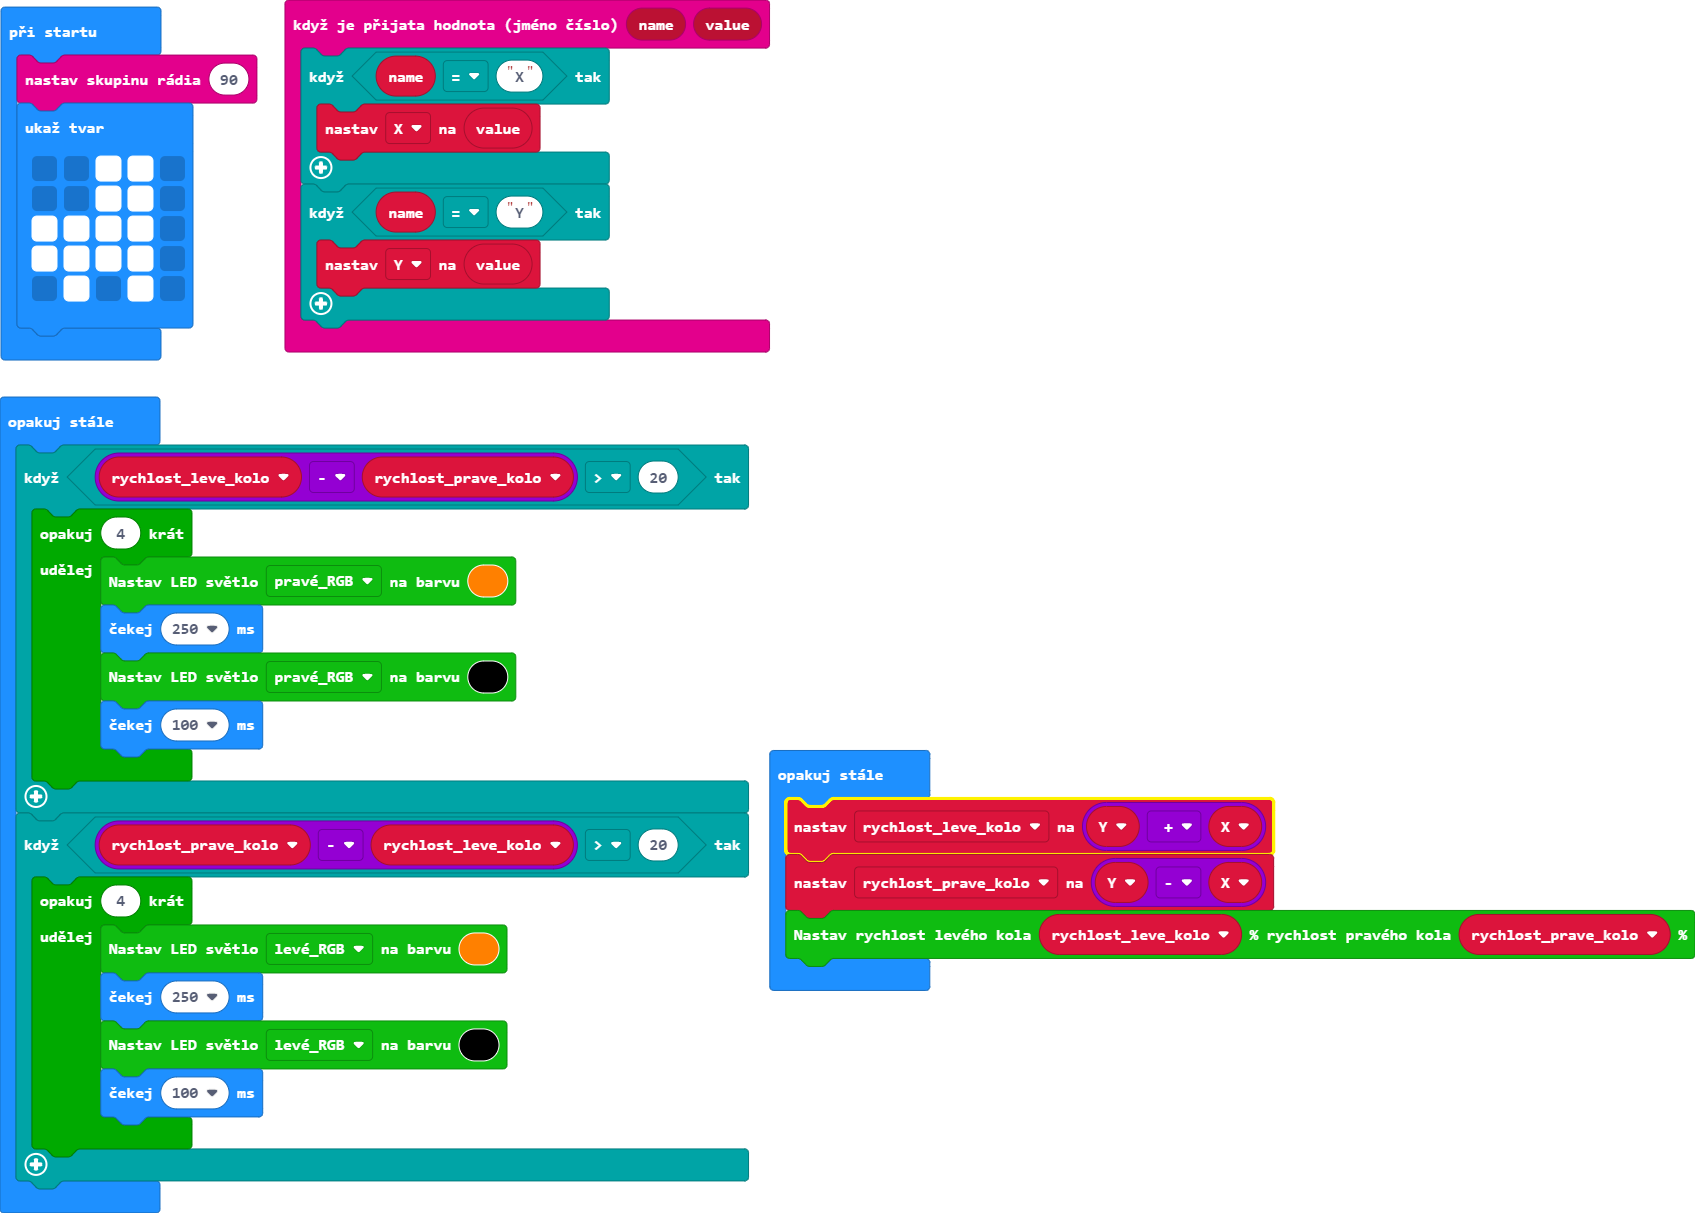
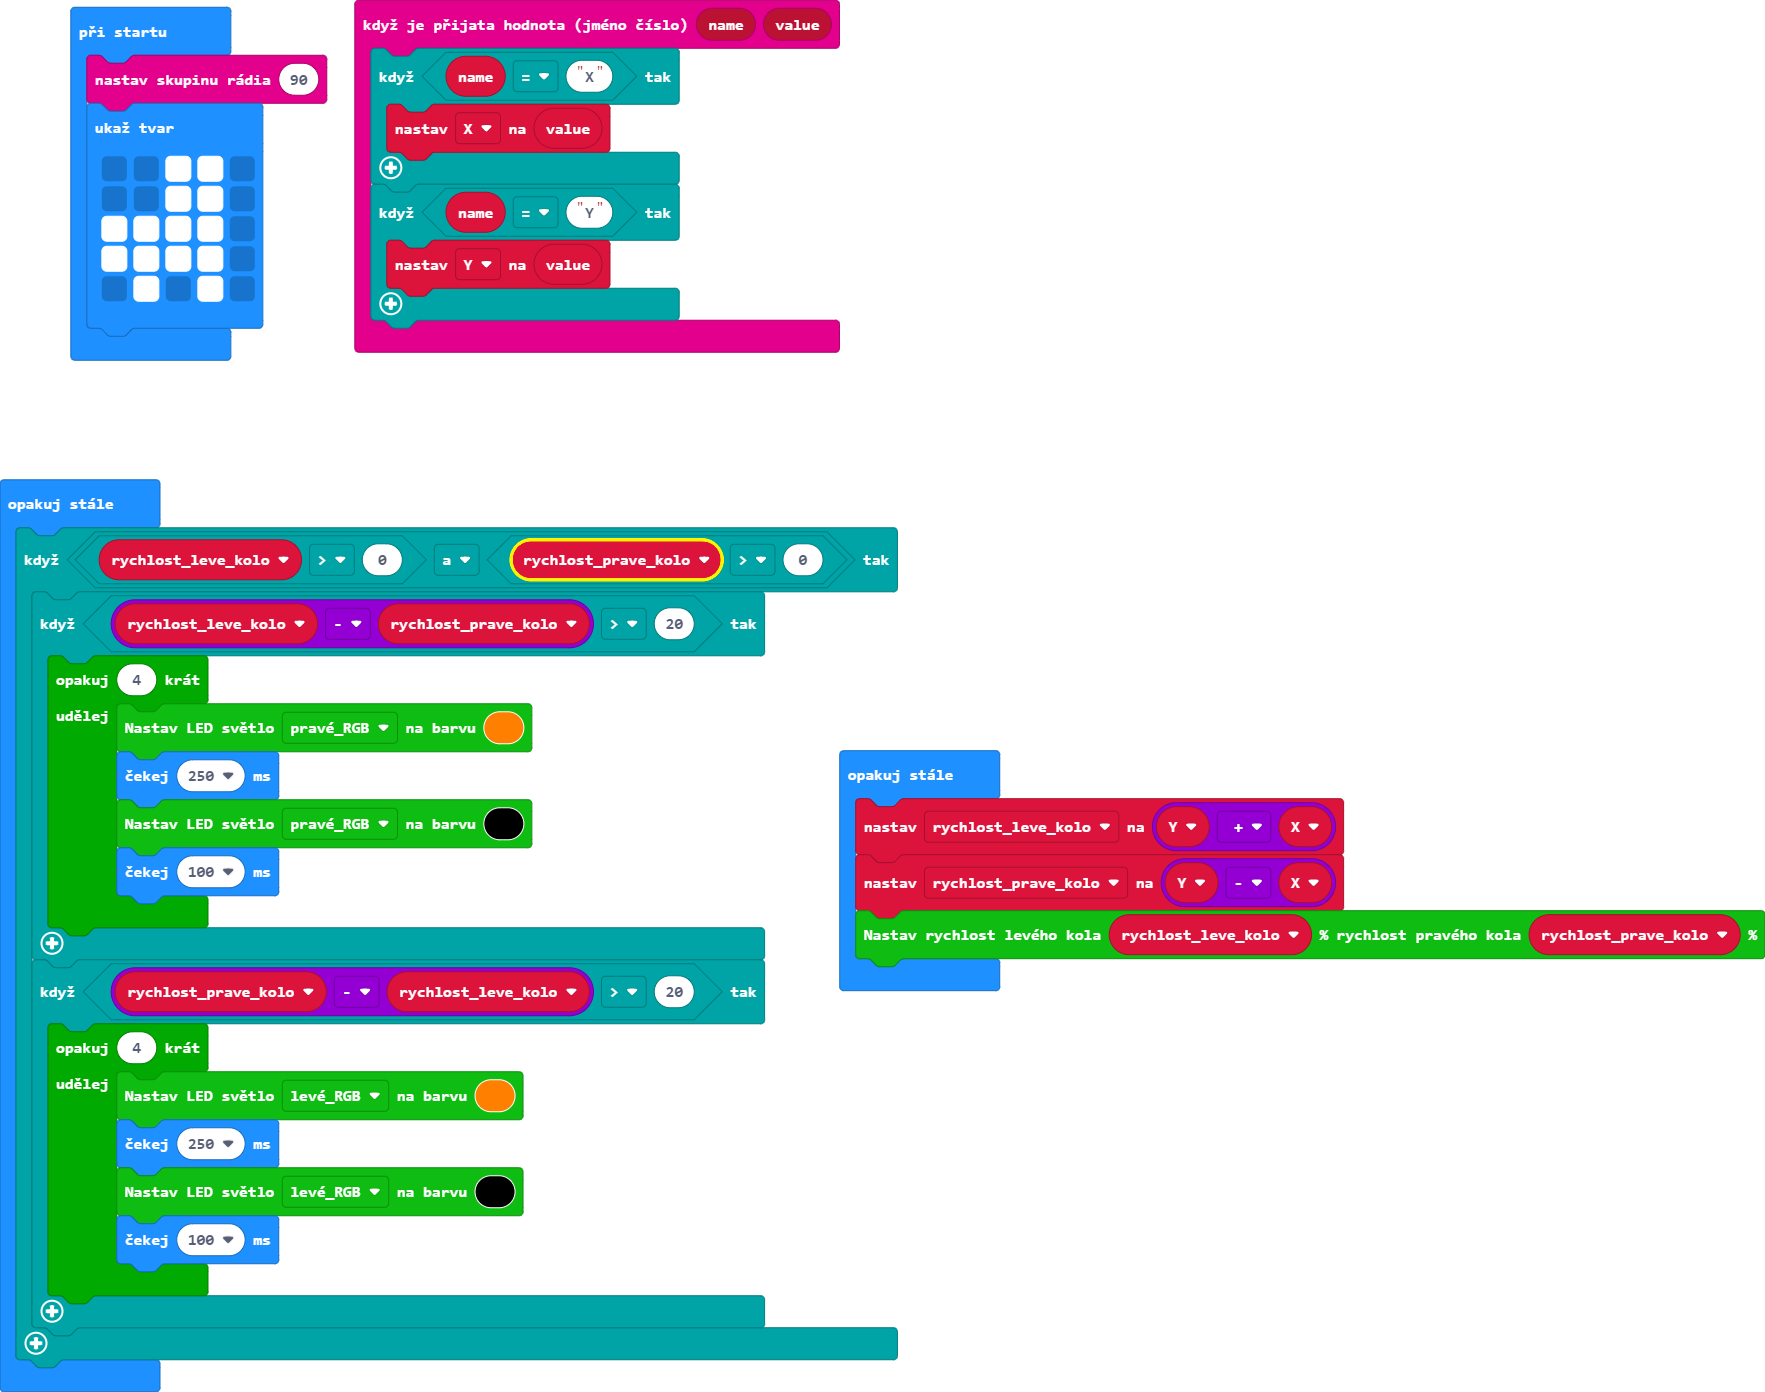
Aktualizovat main.blocks, main.ts

diff --git a/main.ts b/main.ts
@@ -19,20 +19,22 @@ basic.showLeds(`
     . # . # .
     `)
 basic.forever(function () {
-    if (rychlost_leve_kolo - rychlost_prave_kolo > 20) {
-        for (let index = 0; index < 4; index++) {
-            cuteBot.colorLight(cuteBot.RGBLights.RGB_L, 0xff8000)
-            basic.pause(250)
-            cuteBot.colorLight(cuteBot.RGBLights.RGB_L, 0x000000)
-            basic.pause(100)
+    if (rychlost_leve_kolo > 0 && rychlost_prave_kolo > 0) {
+        if (rychlost_leve_kolo - rychlost_prave_kolo > 20) {
+            for (let index = 0; index < 4; index++) {
+                cuteBot.colorLight(cuteBot.RGBLights.RGB_L, 0xff8000)
+                basic.pause(250)
+                cuteBot.colorLight(cuteBot.RGBLights.RGB_L, 0x000000)
+                basic.pause(100)
+            }
         }
-    }
-    if (rychlost_prave_kolo - rychlost_leve_kolo > 20) {
-        for (let index = 0; index < 4; index++) {
-            cuteBot.colorLight(cuteBot.RGBLights.RGB_R, 0xff8000)
-            basic.pause(250)
-            cuteBot.colorLight(cuteBot.RGBLights.RGB_R, 0x000000)
-            basic.pause(100)
+        if (rychlost_prave_kolo - rychlost_leve_kolo > 20) {
+            for (let index = 0; index < 4; index++) {
+                cuteBot.colorLight(cuteBot.RGBLights.RGB_R, 0xff8000)
+                basic.pause(250)
+                cuteBot.colorLight(cuteBot.RGBLights.RGB_R, 0x000000)
+                basic.pause(100)
+            }
         }
     }
 })
